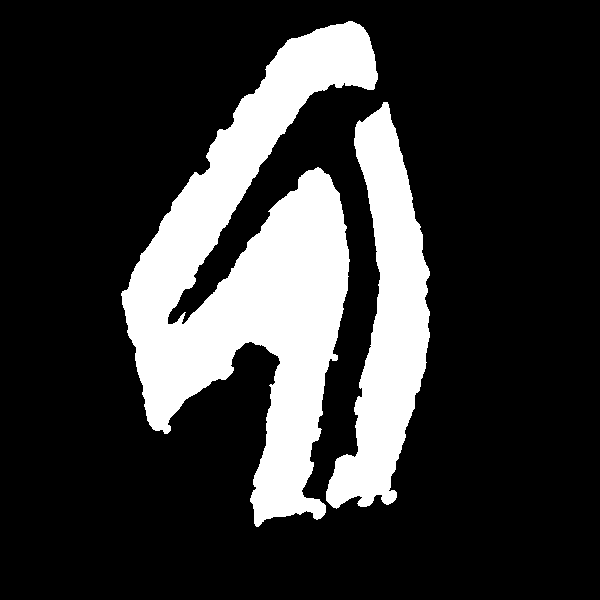
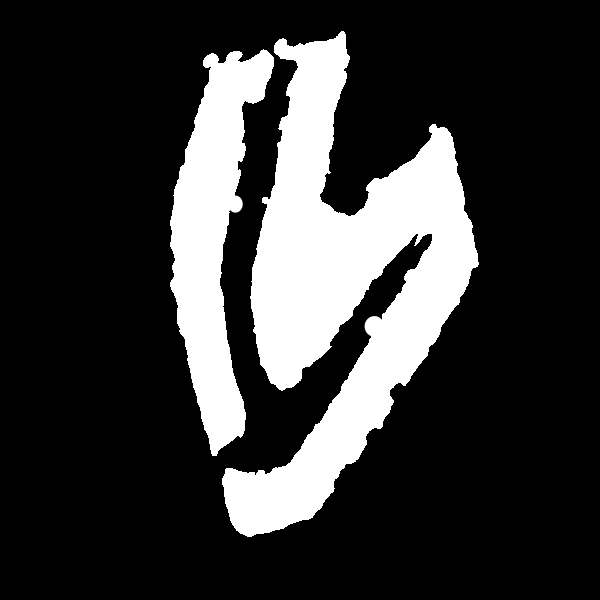
Making sense of rotation

Changed region(s): [[0.18, 0.03, 0.81, 0.9]]

diff --git a/scripts/find_inserter.py b/scripts/find_inserter.py
@@ -27,7 +27,7 @@ class FindInserterNode:
 
     def __init__(self):
         rospy.init_node('find_inserter_node', anonymous=False)
-        default_path = '/home/vittorio/ros_ws/src/adaptive_ctrl/img/disp_cnt_inserter_pos1.png'
+        default_path = '/home/vittorio/ros_ws/src/adaptive_ctrl/inserter/4.inserter_p0.png'
         self.img_path = rospy.get_param('~img_path', default_path)
         self.bridge = CvBridge()
         self.img = cv2.imread(self.img_path, cv2.IMREAD_GRAYSCALE)
@@ -152,18 +152,24 @@ class FindInserterNode:
         """
         bounding_rect = cv2.minAreaRect(poly)
         orientation = bounding_rect[2]
+        (width, height), angle = bounding_rect[1], bounding_rect[2]
+
+        if width >= height:
+            angle = -angle
+        else:
+            angle = 90 + angle
+
         rospy.loginfo("Orientation: %f", orientation)
+        rospy.loginfo("Angle: %f", orientation)
         if orientation == 90:
-            print("Orientation is 90, no rotation needed")
             rotated_poly = poly
         else:
-            print("Orientation is not 90, rotating polygon")
             rotated_poly = self.rotatePolygon(poly, orientation)
 
         insertion_point = self.constructPoint(rotated_poly)
 
         if orientation != 90:
-            print("Orientation is not 90, rotating insertion point")
+            # print("Orientation is not 90, rotating insertion point")
             center = np.mean(poly, axis=0)
             insertion_point = self.rotate_point(
                 insertion_point, center, -orientation)
@@ -180,12 +186,12 @@ class FindInserterNode:
         Returns:
         - point: The constructed point as a numpy array.
         """
-        print("X: ", poly[:, 0])
-        print("y: ", poly[:, 1])
+        # print("X: ", poly[:, 0])
+        # print("y: ", poly[:, 1])
         max_y = np.max(poly[:, 1])
         avg_x = np.mean(poly[:, 0])
-        print("Max y: ", max_y)
-        print("Avg x: ", avg_x)
+        # print("Max y: ", max_y)
+        # print("Avg x: ", avg_x)
         return np.array([avg_x, max_y])
 
     def rotatePolygon(self, pts, angle):

diff --git a/scripts/trigger_path.py b/scripts/trigger_path.py
@@ -1,0 +1,53 @@
+#!/usr/bin/env python
+import rospy
+from std_srvs.srv import Trigger
+from heuristic_planners.srv import GetPath, GetPathRequest, GetPathResponse
+from shapeforming_msgs.srv import GetInsertion, GetInsertionResponse
+from std_msgs.msg import String
+import os
+
+def main():
+    rospy.init_node('service_trigger')
+
+    img_paths = os.listdir('/home/vittorio/ros_ws/src/adaptive_ctrl/inserter')
+    img_paths = [os.path.join('/home/vittorio/ros_ws/src/adaptive_ctrl/inserter', img_path) for img_path in img_paths]
+    # sort alphabetically
+    img_paths.sort()
+    print(img_paths)
+
+    # img_paths = [os.path.join('/home/vittorio/ros_ws/src/adaptive_ctrl/inster', img_path) for img_path in img_paths]
+    img_path_pub = rospy.Publisher('/img_path', String, queue_size=1)
+    i = 0
+    while(not rospy.is_shutdown()):
+        img_path_pub.publish(img_paths[i])
+        i += 1
+        if i == len(img_paths):
+            i = 0
+        rospy.sleep(1)
+        # Trigger /find_inserter service
+        rospy.wait_for_service('/find_inserter')
+        inserter_pos = rospy.ServiceProxy('/find_inserter', GetInsertion)
+        inserter_res = inserter_pos()
+        start = inserter_res.point
+
+        # Trigger /planner_ros_node/request_path service
+        rospy.wait_for_service('/planner_ros_node/request_path')
+        path_service = rospy.ServiceProxy('/planner_ros_node/request_path', GetPath)
+        req = GetPathRequest()
+        # req.start.x = 433
+        # req.start.y = 87
+        # req.start.z = 0.0
+        req.start = start
+
+        req.goal.x = 308
+        req.goal.y = 395
+        req.goal.z = 0.0
+        
+        # req.algorithm.data = "thetastar"
+        path_service(req)
+        rospy.sleep(2)
+
+    # rospy.spin()
+
+if __name__ == '__main__':
+    main()

diff --git a/scripts/path_extractor.py b/scripts/path_extractor.py
@@ -22,7 +22,7 @@ class PathExtractor:
 
 
     def PathCB_(self, msg):
-        rospy.loginfo("PathCB_")
+        # rospy.loginfo("PathCB_")
         # extract the x and y coordinates from the path
         x = []
         y = []
@@ -55,13 +55,7 @@ class PathExtractor:
         for i in range(1, len(angles_np)):
             rl_points[i] = rl_points[i-1] + [dx[i-1], dy[i-1] ]
 
-        # with open('src/adaptive_ctrl/csv/path.csv', 'w') as f:
-        #     writer = csv.writer(f)
-        #     writer.writerow(['x', 'y'])
-        #     writer.writerows(zip(x, y))
-        # print(rl_points.shape)
-        # print(rl_points)
-        # print(angles_np)
+
         # # Publish the points as a marker
         marker = self.create_marker(rl_points)
         self.vizAnglePub_.publish(marker)
